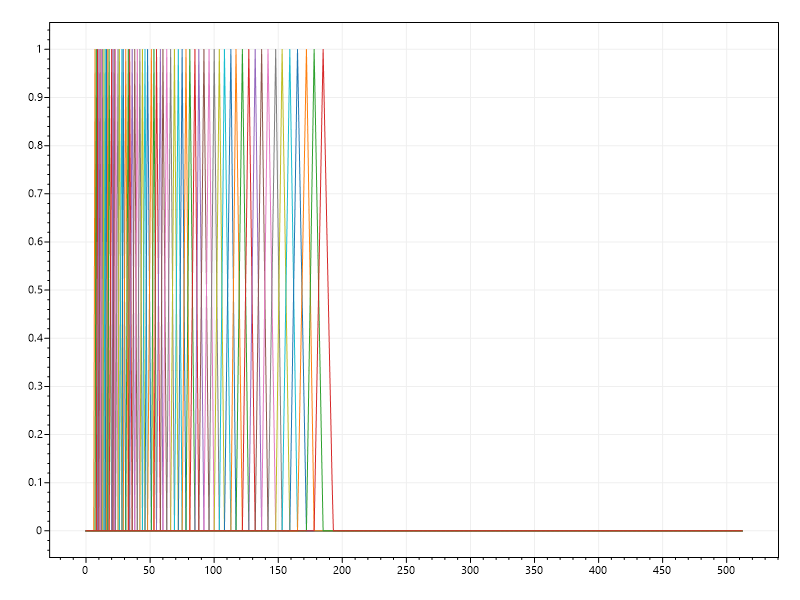
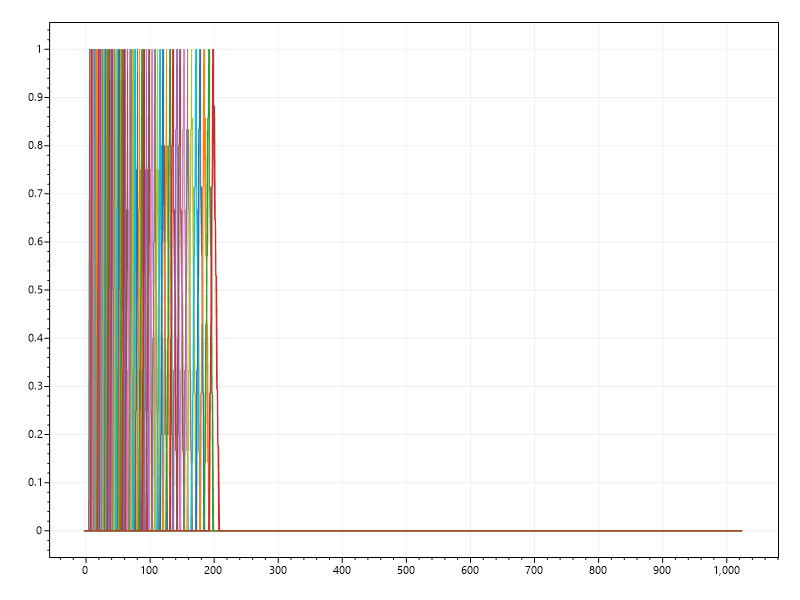
Added envelope detection and finalised MFCCExtractor

diff --git a/Services/FeatureExtraction/MfccExtractor.cs b/Services/FeatureExtraction/MfccExtractor.cs
@@ -9,6 +9,8 @@ using AudioAnalyser.DSPUtils;
 public class MfccExtractor : IFeatureExtractor
 {
     public int NumMelBands { get; set; } = 64; //increase for more dynamic music
+
+    public int NumMfccs { get; set; } = 30; // Number of Mfccs to retain
     public double LowerFrequencyBound { get; set; } = 300; // Hz
     public double UpperFrequencyBound { get; set; } = 8000; //Hz
 
@@ -21,38 +23,63 @@ public class MfccExtractor : IFeatureExtractor
         return song;
     }
 
+    // MFCC definition based off article : 
+    // https://vitolavecchia.altervista.org/mel-frequency-cepstral-coefficient-mfcc-guidebook/
     private List<double[]> GetMFCC(IMusicFileStream reader)
     {
-        var frameLength = 1024;
-        var hopLength = reader.SampleRate / 100;
+        // Calculate initial framing parameters to partition the signal
+        var frameLength = (int)(reader.SampleRate * 0.025); // 25ms frame length
+        var hopLength = (int)(reader.SampleRate * 0.01);    //10ms hop length
+
+        // Obtain sample frames of the music data.
         var musicData = reader.ReadAll();
         var sampleFrames = PartitionToFrames(musicData, frameLength, hopLength);
 
-        var melFilter = ConstructMelFilterBands((int)(frameLength / 2 + 1), (double)reader.SampleRate / frameLength);
+        // Construct the mel filter bank based on the number of melbands specified in the NumMelBands property
+        // A filter matrix is formed of size (NumMelBands x (FFT Output Length/2+1)) 
+        // (Note the second parameter is found by finding the upper power of 2 bound of frameLength, 
+        // Then dividing by 2 due to nyquist sampling and adding 1)
+        var filterLength = 0;
+        if ((frameLength & (frameLength - 1)) == 0)
+        {
+            filterLength = frameLength / 2 + 1;
+        }
+        else
+        {
+            filterLength = (int)(Math.Pow(2, (int)(Math.Log2(frameLength)) + 1) / 2 + 1);
+        }
+        var melFilter = ConstructMelFilterBands(filterLength, (double)reader.SampleRate / frameLength);
+
         var mfccs = new List<double[]>();
-        var spectrogram = Matrix<double>.Build.Dense(sampleFrames.Count(), (int)(frameLength / 2 + 1));
+
         foreach (var frame in sampleFrames)
         {
-            // Convert to frequency domain by applying windowing function and dft
+            // Convert to frequency domain by applying windowing function and dft (Short-time fourier transforms)
             var windowedFrame = ApplyWindow(frame);
-            var frequencySpectrum = windowedFrame.ToArray();
-            var result = FourierTransform.Radix2FFT(frequencySpectrum);
-            //Discard the upper half of the frequency spectrum due to nyquest sampling
-            frequencySpectrum = frequencySpectrum.Take((int)(frameLength / 2 + 1)).ToArray();
+            var frequencySpectrum = FourierTransform.Radix2FFT(windowedFrame.ToArray());
+            // FourierTransformControl.Provider.Forward(frequencySpectrum, FourierTransformScaling.SymmetricScaling);
 
-            // Apply log transform to get the log spectrum of the signal
-            var logAmplitudeSpectra = frequencySpectrum.Select(complex => Math.Log10(1 + complex.Magnitude));
+            //Discard the upper half of the frequency spectrum due to nyquest sampling
+            frequencySpectrum = frequencySpectrum.Take(frequencySpectrum.Count() / 2 + 1).ToArray();
+
+            // Obtain the periodogram estimate of the power spectrum
+            var powerSpectrum = frequencySpectrum.Select(
+                val => 1.0 / frequencySpectrum.Count() * Math.Pow(val.Magnitude, 2)).ToArray();
+
 
             // Apply mel-filtering using matrix multiplication with filterbank 
-            var logAmplitudeSpectraVector = MathNet.Numerics.LinearAlgebra.Vector<double>.Build.Dense(logAmplitudeSpectra.ToArray());
-            var filteredLogAmplitudeSpectrum = melFilter.Multiply(logAmplitudeSpectraVector);
+            var powerSpectrumVector = MathNet.Numerics.LinearAlgebra.Vector<double>.Build.Dense(powerSpectrum);
+            var melFilteredPowerSpectrum = melFilter.Multiply(powerSpectrumVector);
 
-            // Apply discrete cosine transform
-            var dctResult = filteredLogAmplitudeSpectrum.ToArray();
+            // Take the log of the mel-fitered powers
+            var logFilteredPowerSpectrum = melFilteredPowerSpectrum.Select(x => Math.Log10(1 + x));
+
+            // Apply discrete cosine transform to return the MFCCs and only keep the lower coefficients
+            var dctResult = logFilteredPowerSpectrum.ToArray();
             FastDctLee.Transform(dctResult);
-            mfccs.Add(dctResult);
-        }
 
+            mfccs.Add(dctResult.Take(NumMfccs).ToArray());
+        }
 
         return mfccs;
     }
@@ -60,7 +87,7 @@ public class MfccExtractor : IFeatureExtractor
     private List<List<float[]>> PartitionToFrames(List<float[]> musicData, int frameLength, int hopLength)
     {
         var partitions = new List<List<float[]>>();
-        for (var offset = 0; offset < musicData.Count() - hopLength; offset += hopLength)
+        for (var offset = 0; offset < musicData.Count() - frameLength; offset += hopLength)
         {
             partitions.Add(musicData.Skip(offset).Take(frameLength).ToList());
         }
@@ -98,16 +125,13 @@ public class MfccExtractor : IFeatureExtractor
             .Select(mel => MelToFrequency(mel) - MelToFrequency(mel) % frequencyStep).ToList();
 
         var melFilter = Matrix<double>.Build.Dense(NumMelBands, numSamples);
-        var plt = new ScottPlot.Plot();
         for (var i = 0; i < NumMelBands; ++i)
         {
             var lower = i == 0 ? startFreq : centreFrequencies[i - 1];
             var upper = i == NumMelBands - 1 ? endFreq : centreFrequencies[i + 1];
             var filter = ConstructSingleMelBand(lower, centreFrequencies[i], upper, frequencyStep, numSamples);
             melFilter.SetRow(i, filter);
-            plt.AddSignal(filter);
         }
-        plt.SaveFig("./MelFilter.png");
         return melFilter;
 
     }

diff --git a/Services/FeatureExtraction/TimeDomainFeatures/EnvelopeDetection/BasicEnvelopeDetector.cs b/Services/FeatureExtraction/TimeDomainFeatures/EnvelopeDetection/BasicEnvelopeDetector.cs
@@ -1,0 +1,32 @@
+
+using AudioAnalyser.FeatureExtraction;
+using AudioAnalyser.Models;
+using AudioAnalyser.MusicFileReader;
+
+namespace AudioAnalyser.FeatureExtraction;
+public class BasicEnvelopeDetector : EnvelopeDetector
+{
+    protected override List<float> GetAmplitudeEnvelope(IMusicFileStream reader)
+    {
+        int frameSize = (int)(reader.SampleRate * 0.025); // Approx 25ms frame size
+        int hopLength = (int)(reader.SampleRate * 0.01); // Approx 10ms hops
+        var musicData = reader.ReadAll();
+        var averagedChannelData = musicData.Select(channelData => channelData.Average()).ToArray();
+        var amplitudeEnvelope = new List<float>();
+        for (var offset = 0; offset < averagedChannelData.Count() - frameSize; offset += hopLength)
+        {
+            amplitudeEnvelope.Add(averagedChannelData.Skip(offset).Take(frameSize).Max());
+        }
+
+        // var plt = new ScottPlot.Plot();
+        // plt.AddSignal(Array.ConvertAll(amplitudeEnvelope.ToArray(), x => (double)x));
+        // plt.SaveFig("./AmplitudeEnv.png");
+        // plt.Clear();
+        // plt.AddSignal(Array.ConvertAll(averagedChannelData.ToArray(), x => (double)x));
+        // plt.SaveFig("./Signal.png");
+        return amplitudeEnvelope;
+    }
+
+
+}
+

diff --git a/Models/Song.cs b/Models/Song.cs
@@ -6,9 +6,11 @@ public record Song
     public TimeSpan TotalTime { get; set; }
     public int BeatsPerMinute { get; set; }
     public List<double> ZeroCrossingRates { get; set; }
-    public double AverageZeroCrossingRate { get => ZeroCrossingRates?.Average() ?? 0.0; }
+    public double AverageZeroCrossingRate => ZeroCrossingRates?.Average() ?? 0;
     public List<double> RootMeanSquares { get; set; }
-    public double AverageRootMeanSquare { get => RootMeanSquares?.Average() ?? 0.0; }
+    public double AverageRootMeanSquare => RootMeanSquares?.Average() ?? 0;
+    public List<float> AmplitudeEnvelope { get; set; }
+    public float AverageEnvelope => AmplitudeEnvelope?.Average() ?? 0;
     public List<double[]> MFCC { get; set; }
     public Song(string filePath) => FilePath = filePath;
 

diff --git a/Services/FeatureExtraction/TimeDomainFeatures/EnvelopeDetection/EnvelopeDetector.cs b/Services/FeatureExtraction/TimeDomainFeatures/EnvelopeDetection/EnvelopeDetector.cs
@@ -1,0 +1,17 @@
+using AudioAnalyser.FeatureExtraction;
+using AudioAnalyser.Models;
+using AudioAnalyser.MusicFileReader;
+
+namespace AudioAnalyser.FeatureExtraction;
+public abstract class EnvelopeDetector : IFeatureExtractor
+{
+    protected abstract List<float> GetAmplitudeEnvelope(IMusicFileStream reader);
+    public Song ExtractFeature(Song song)
+    {
+        using (var reader = MusicFileStreamFactory.GetStreamReader(song))
+        {
+            song.AmplitudeEnvelope = GetAmplitudeEnvelope(reader);
+        }
+        return song;
+    }
+}

diff --git a/Services/DSPUtils/DCTFast.cs b/Services/DSPUtils/DCTFast.cs
@@ -22,7 +22,7 @@
  */
 
 using System;
-
+using System.Numerics;
 namespace AudioAnalyser.DSPUtils;
 internal sealed class FastDctLee
 {
@@ -111,4 +111,13 @@ internal sealed class FastDctLee
         }
     }
 
+
+    // public static double[] DiscreteCosineTransform(double[] signal)
+    // {
+    //     var y = new double[signal.Length * 2];
+    //     Array.Fill(y, 0);
+    //     signal.CopyTo(y, 0);
+    //     var Y = FourierTransform.Radix2FFT(y);
+
+    // }
 }

diff --git a/Services/DSPUtils/FFT.cs b/Services/DSPUtils/FFT.cs
@@ -23,6 +23,11 @@ internal sealed class FourierTransform
             return FFTBody(paddedSignal).Select(x => x / Math.Sqrt(paddedSignal.Length)).ToArray();
         }
     }
+
+    public static Complex[] Radix2FFT(double[] signal)
+    {
+        return Radix2FFT(signal.Select(x => new Complex(x, 0)).ToArray());
+    }
     private static Complex[] FFTBody(Complex[] signal)
     {
         var n = signal.Length;

diff --git a/Program.cs b/Program.cs
@@ -15,7 +15,8 @@ if (!File.Exists(args[0]))
 }
 
 var pipe = new FeatureExtractionPipeline();
-pipe.Load(new MfccExtractor());
+// pipe.Load(new MfccExtractor());
+pipe.Load(new BasicEnvelopeDetector());
 var song = new Song(args[0]);
 pipe.Process(song);
 Console.WriteLine(song);
